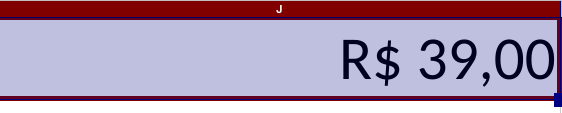
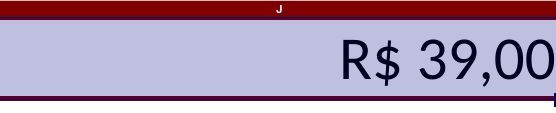
fix(shorts-v3.7): close-up termina antes da borda da seleção
Calibração com OCR real (3b654e92): positivo reprovou em prova_ilegivel —
o tesseract lia "R$ 39,00)": a borda da seleção colada ao valor virava
")" e a leitura estrita (token idêntico) recusava. O recorte do close-up
agora termina 4 px antes da borda; os 4 valores são lidos exatos
(93/74/78/78 px, mínimo 56). A leitura estrita não foi afrouxada.

Claude-Session: https://claude.ai/code/session_013qEayJV2BctKApuM3NnNgu

Changed region(s): [[0.6115, 0.0, 1.0, 0.9558], [0.4892, 0.0531, 0.5198, 0.1327]]

diff --git a/scripts/shorts-v3/capturar_planilha.py b/scripts/shorts-v3/capturar_planilha.py
@@ -85,7 +85,8 @@ def main(original, prov_path, saida):
             x0, x1 = faixa_selecionada(im, "x", 118, 30, LARGURA_JANELA - 60)   # letra da coluna selecionada
             y0, y1 = faixa_selecionada(im, "y", 10, 100, ALTURA_PERTO - 60)    # número da linha selecionada
             topo = 110  # faixa das letras das colunas, logo acima da linha visível
-            corte = (max(x0, x1 - 560), topo, min(LARGURA_JANELA - 60, x1 + 2), y1 + 14)
+            # termina 4 px ANTES da borda da seleção: a borda colada ao valor virava ")" no OCR ("39,00)")
+            corte = (max(x0, x1 - 560), topo, min(LARGURA_JANELA - 60, x1 - 4), y1 + 14)
             im.crop(corte).save(os.path.join(saida, f"celula-{nome}.png")); os.remove(tmp)
             out[nome] = {"celula": c["celula"], "corte_perto": corte}
         print(json.dumps(out, ensure_ascii=False))
